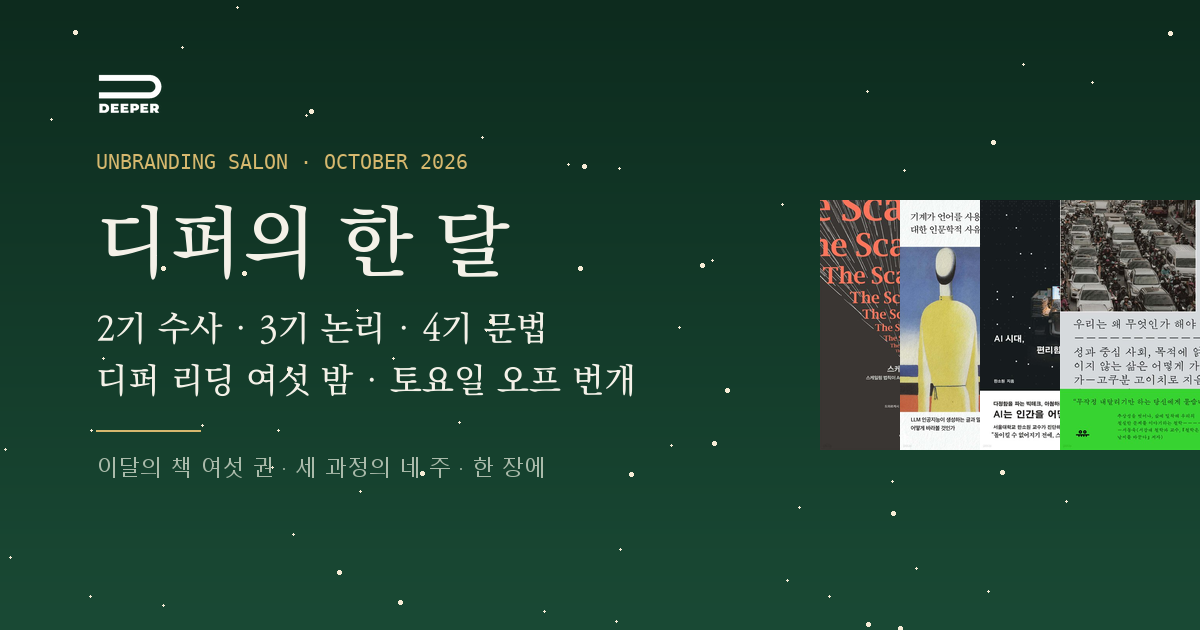
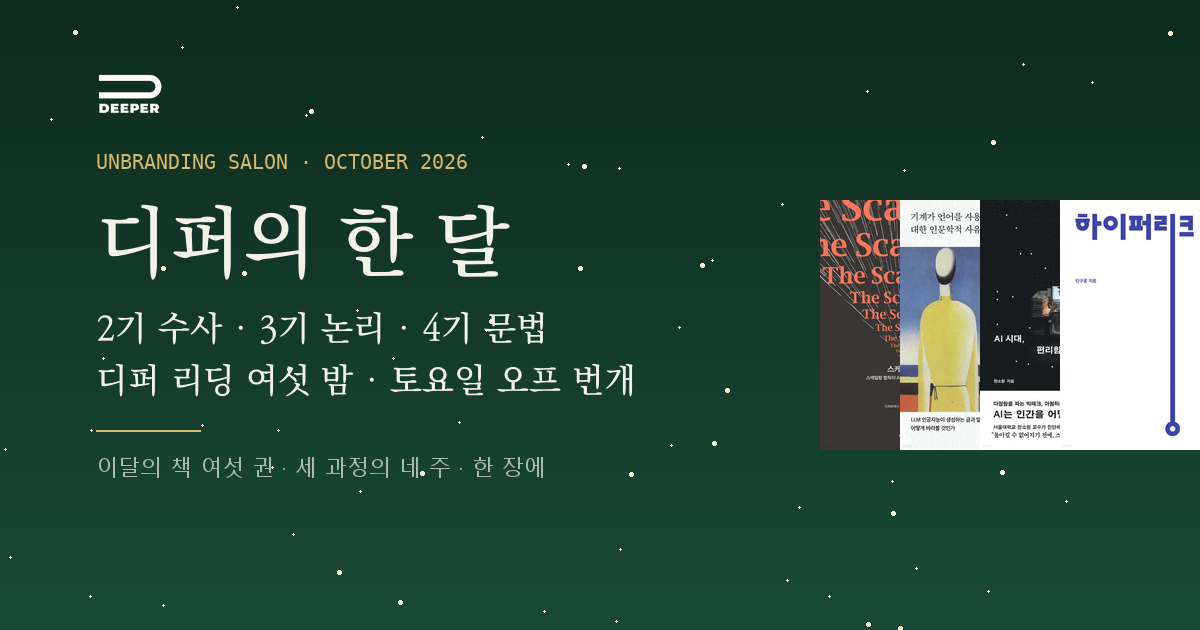
[calendar] 10/28 리딩 → 하이퍼링크
10월 디퍼 리딩 여섯 밤 중 10/28 한 자리만 교체한다.
『우리는 왜 무엇인가 해야 할까』(고쿠분 고이치로) → 『하이퍼링크』(민구홍 · 안그라픽스 · 227쪽 · 2026-06).
고쿠분 책은 11월 예비로 옮긴다. 나머지 다섯 밤과 일요일 오뒷세이아 5·6(10/11)·7·8(10/25)은 그대로.

- 달력 10/28 칸 · 「이달의 책」 여섯째 카드(표지·서지·범위·소개)
- sec-desc 흐름 문장 「그래도 왜 하는가」 → 「내 방의 링크」
- calendar/cover_hyperlink.jpg 새로 (예스24 goods 192472888 · 높이 640)
- month_grid·form_card·og 세 이미지 해당 자리만 다시 구움 (크기·구도 그대로)

Changed region(s): [[0.8633, 0.3016, 1.0, 0.7238]]

diff --git a/deeper_calendar_2026-10.html b/deeper_calendar_2026-10.html
@@ -251,7 +251,7 @@
           <td><div class="dnum">10/27</div></td>
           <td>
             <div class="dnum">10/28</div>
-            <div class="ev ev-s"><b>디퍼 리딩 ⑥</b><br>『우리는 왜 무엇인가 해야 할까』<br><span class="t">밤 9~10:30 · 전체 디퍼</span></div>
+            <div class="ev ev-s"><b>디퍼 리딩 ⑥</b><br>『하이퍼링크』<br><span class="t">밤 9~10:30 · 전체 디퍼</span></div>
           </td>
           <td>
             <div class="dnum">10/29</div>
@@ -268,7 +268,7 @@
 
   <section class="sec">
     <div class="sec-head"><h2>이달의 책 — 디퍼 리딩 여섯 밤</h2><span class="lead">수요일 밤 9시~10시 30분 · 일요일 밤 9시~10시 30분 · 전체 디퍼</span></div>
-    <p class="sec-desc">9월에 『마침내 특이점이 시작된다』와 『생각하는 기계』로 기계 쪽을 읽었으니, 10월은 사람 쪽으로 돌아옵니다. 만드는 사람들의 속기록에서 시작해 기계의 말, 맡기면 사라지는 것, 그래도 왜 하는가로 내려옵니다. 사이사이 일요일엔 오뒷세우스가 집으로 가는 길을 두 권씩 걷습니다. 읽은 만큼 오시면 됩니다. 사실을 다지고, 해석을 나누고, 마지막 몇 분에 각자의 평가를 남기는 소크라테스식 세미나입니다.</p>
+    <p class="sec-desc">9월에 『마침내 특이점이 시작된다』와 『생각하는 기계』로 기계 쪽을 읽었으니, 10월은 사람 쪽으로 돌아옵니다. 만드는 사람들의 속기록에서 시작해 기계의 말, 맡기면 사라지는 것, 내 방의 링크로 내려옵니다. 사이사이 일요일엔 오뒷세우스가 집으로 가는 길을 두 권씩 걷습니다. 읽은 만큼 오시면 됩니다. 사실을 다지고, 해석을 나누고, 마지막 몇 분에 각자의 평가를 남기는 소크라테스식 세미나입니다.</p>
     <div class="books">
 
       <div class="book">
@@ -318,11 +318,11 @@
 
       <div class="book">
         <div class="when"><b>10/28 (수) 21:00~22:30</b> · 리딩 ⑥</div>
-        <div class="cover"><img src="calendar/cover_why_do.jpg" alt="우리는 왜 무엇인가 해야 할까 표지"></div>
-        <h3>우리는 왜 무엇인가 해야 할까</h3>
-        <div class="bib">고쿠분 고이치로 · 박영대 옮김 · 유유 · 220쪽</div>
+        <div class="cover"><img src="calendar/cover_hyperlink.jpg" alt="하이퍼링크 표지"></div>
+        <h3>하이퍼링크</h3>
+        <div class="bib">민구홍 · 안그라픽스 · 227쪽</div>
         <span class="scope">통독</span>
-        <p>해야 한다는 감각이 넘칠 때 공허가 옵니다. 모든 행동에 목적과 성과를 요구하는 사회에서, 하는 과정 자체가 나를 만든다는 말을 철학자가 천천히 풀어 갑니다. 수사의 달을 마친 이틀 뒤, 한 달을 닫는 책입니다. 220쪽, 하루 저녁이면 읽힙니다.</p>
+        <p>웹페이지의 파란 밑줄에서 출발해, 링크를 세계를 읽고 쓰고 연결하는 하나의 방식으로 봅니다. 문서와 문서만이 아니라 기억과 기록, 질문과 검색, 저자와 독자가 이어지는 과정입니다. 생성형 AI가 문장을 대신 만들어 주는 시대일수록 무엇을 연결하고 어떤 맥락을 만들 것인지는 사람의 몫입니다. 옵시디언 링크로 세컨드 브레인을 짓는 우리와 곧장 닿습니다. 수사의 달을 마친 이틀 뒤, 한 달을 연결로 닫습니다.</p>
       </div>
 
     </div>
